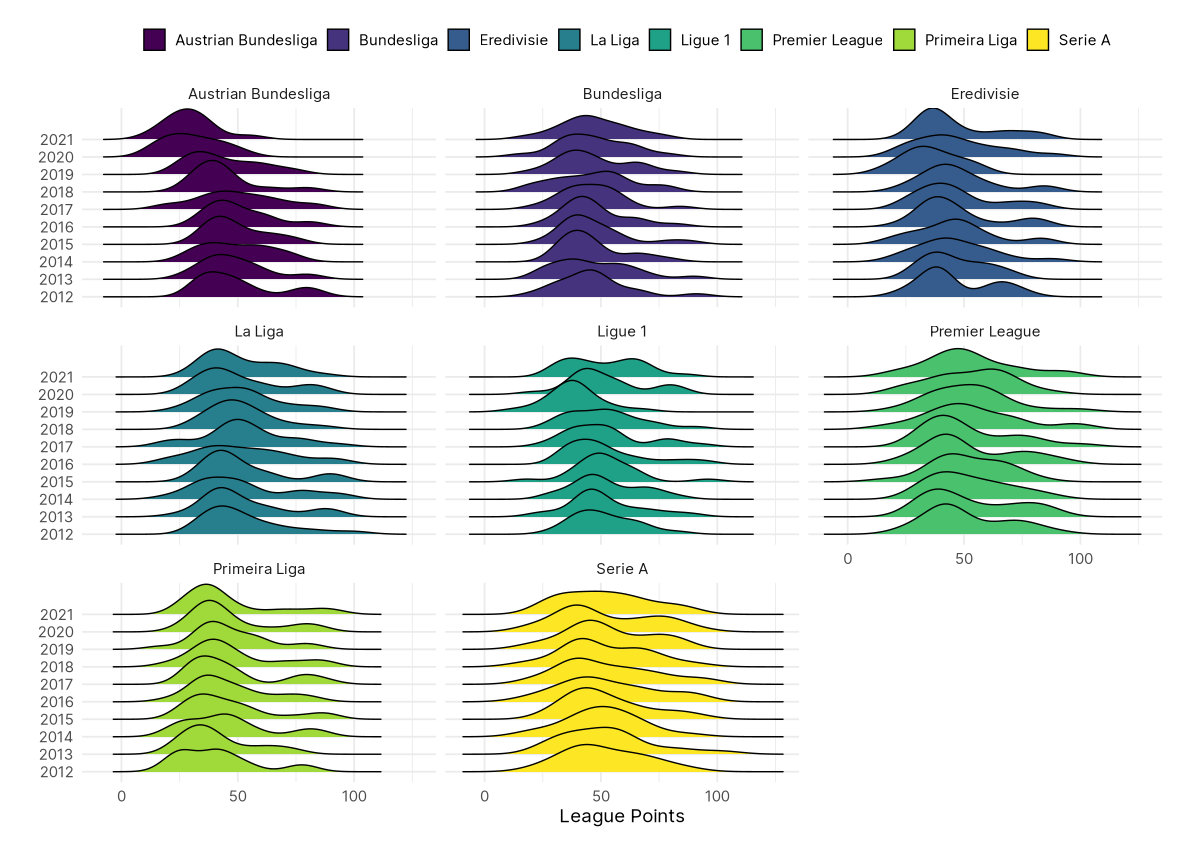
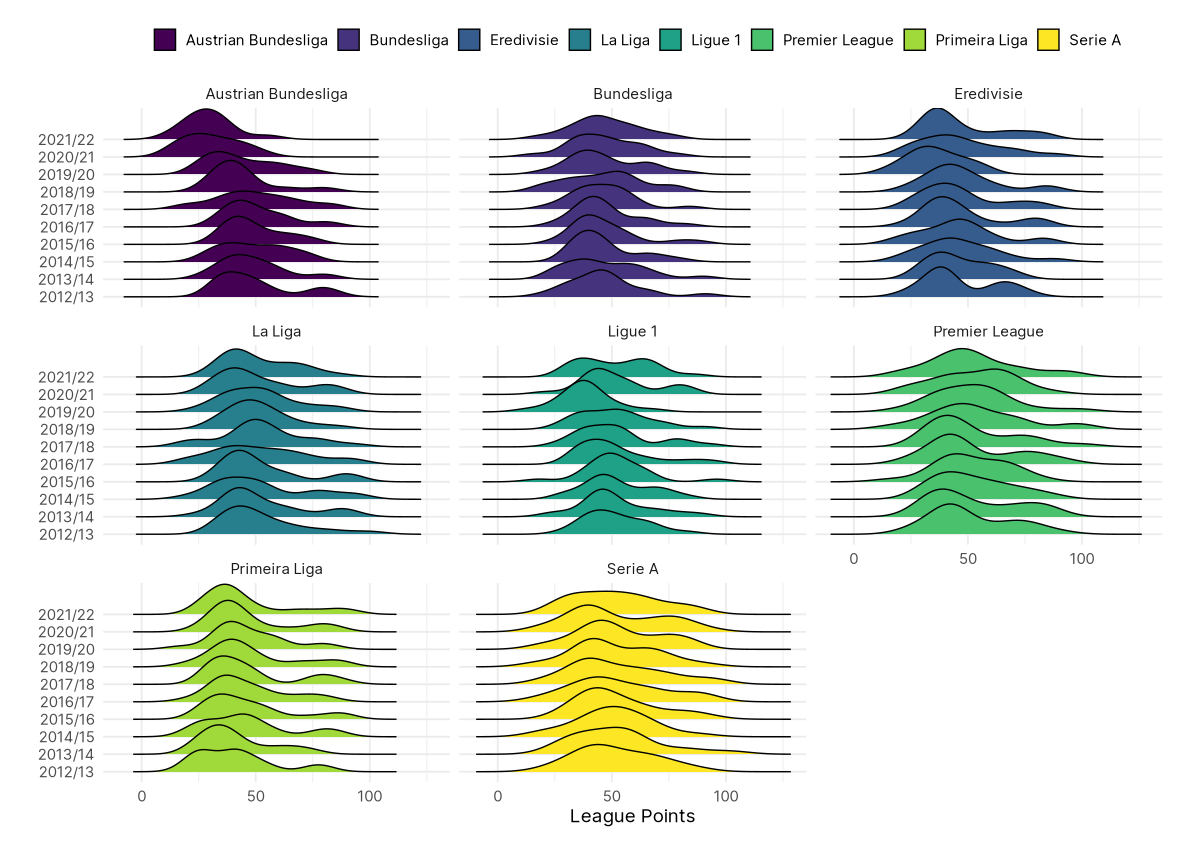
Update EDA

diff --git a/output/01-exploratory_data_analysis.md b/output/01-exploratory_data_analysis.md
@@ -23,6 +23,9 @@ Paul Johnson
   - <a href="#the-relationship-between-squad-value-points"
     id="toc-the-relationship-between-squad-value-points">The Relationship
     Between Squad Value &amp; Points</a>
+    - <a href="#the-variance-in-relationship-over-time"
+      id="toc-the-variance-in-relationship-over-time">The Variance in
+      Relationship Over Time</a>
 
 # Points Totals
 
@@ -78,7 +81,7 @@ points are distributed over time?
 
 ``` r
 club_resources %>%
-  ggplot(aes(x = pts, y = forcats::as_factor(season), fill = league)) +
+  ggplot(aes(x = pts, y = season, fill = league)) +
   ggridges::geom_density_ridges() +
   scale_fill_viridis_d(guide = guide_legend(nrow = 1)) +
   facet_wrap(~ league) +
@@ -102,18 +105,18 @@ club_resources %>%
 ```
 
     # A tibble: 10 × 2
-       season   pts
-        <dbl> <dbl>
-     1   2012  46.5
-     2   2013  45.5
-     3   2014  48  
-     4   2015  45.5
-     5   2016  46  
-     6   2017  48.5
-     7   2018  41  
-     8   2019  40  
-     9   2020  29.5
-    10   2021  29.5
+       season    pts
+       <fct>   <dbl>
+     1 2012/13  46.5
+     2 2013/14  45.5
+     3 2014/15  48  
+     4 2015/16  45.5
+     5 2016/17  46  
+     6 2017/18  48.5
+     7 2018/19  41  
+     8 2019/20  40  
+     9 2020/21  29.5
+    10 2021/22  29.5
 
 The average points drop after 2017/18, from around 45-48 points to
 around 40 for a couple seasons, and then below 30 for the last two
@@ -329,3 +332,40 @@ club_resources %>%
 ```
 
 ![](01-exploratory_data_analysis_files/figure-gfm/pts-and-values-2.png)
+
+### The Variance in Relationship Over Time
+
+Time doesn’t appear to have an impact the intercepts in any meaningful
+way, but it clearly has a role to play in the slope in each league. This
+makes sense. Each season is a more or less separate entity, and over
+time, as bigger teams have increasingly high value teams, the way that
+points are distributed chagnes, and the role that money plays changes.
+
+``` r
+club_resources %>%
+  ggplot(aes(pts, value, colour = season)) +
+  geom_point() +
+  geom_smooth(method = "lm", se = FALSE) +
+  scale_colour_viridis_d(guide = guide_legend(nrow = 1)) +
+  scale_y_continuous(
+    labels = label_number(scale_cut = cut_short_scale(), prefix = "€")
+    ) +
+  labs(x = "League Points", y = "Squad Market Value")
+```
+
+![](01-exploratory_data_analysis_files/figure-gfm/pts-and-values-by-season-1.png)
+
+``` r
+club_resources %>%
+  ggplot(aes(pts, value, colour = season)) +
+  geom_point() +
+  geom_smooth(method = "lm", se = FALSE) +
+  scale_colour_viridis_d(guide = guide_legend(nrow = 1)) +
+  scale_y_continuous(
+    labels = label_number(scale_cut = cut_short_scale(), prefix = "€")
+    ) +
+  facet_wrap(~ league, scales = "free", nrow = 2) +
+  labs(x = "League Points", y = "Squad Market Value")
+```
+
+![](01-exploratory_data_analysis_files/figure-gfm/pts-and-values-by-season-2.png)
